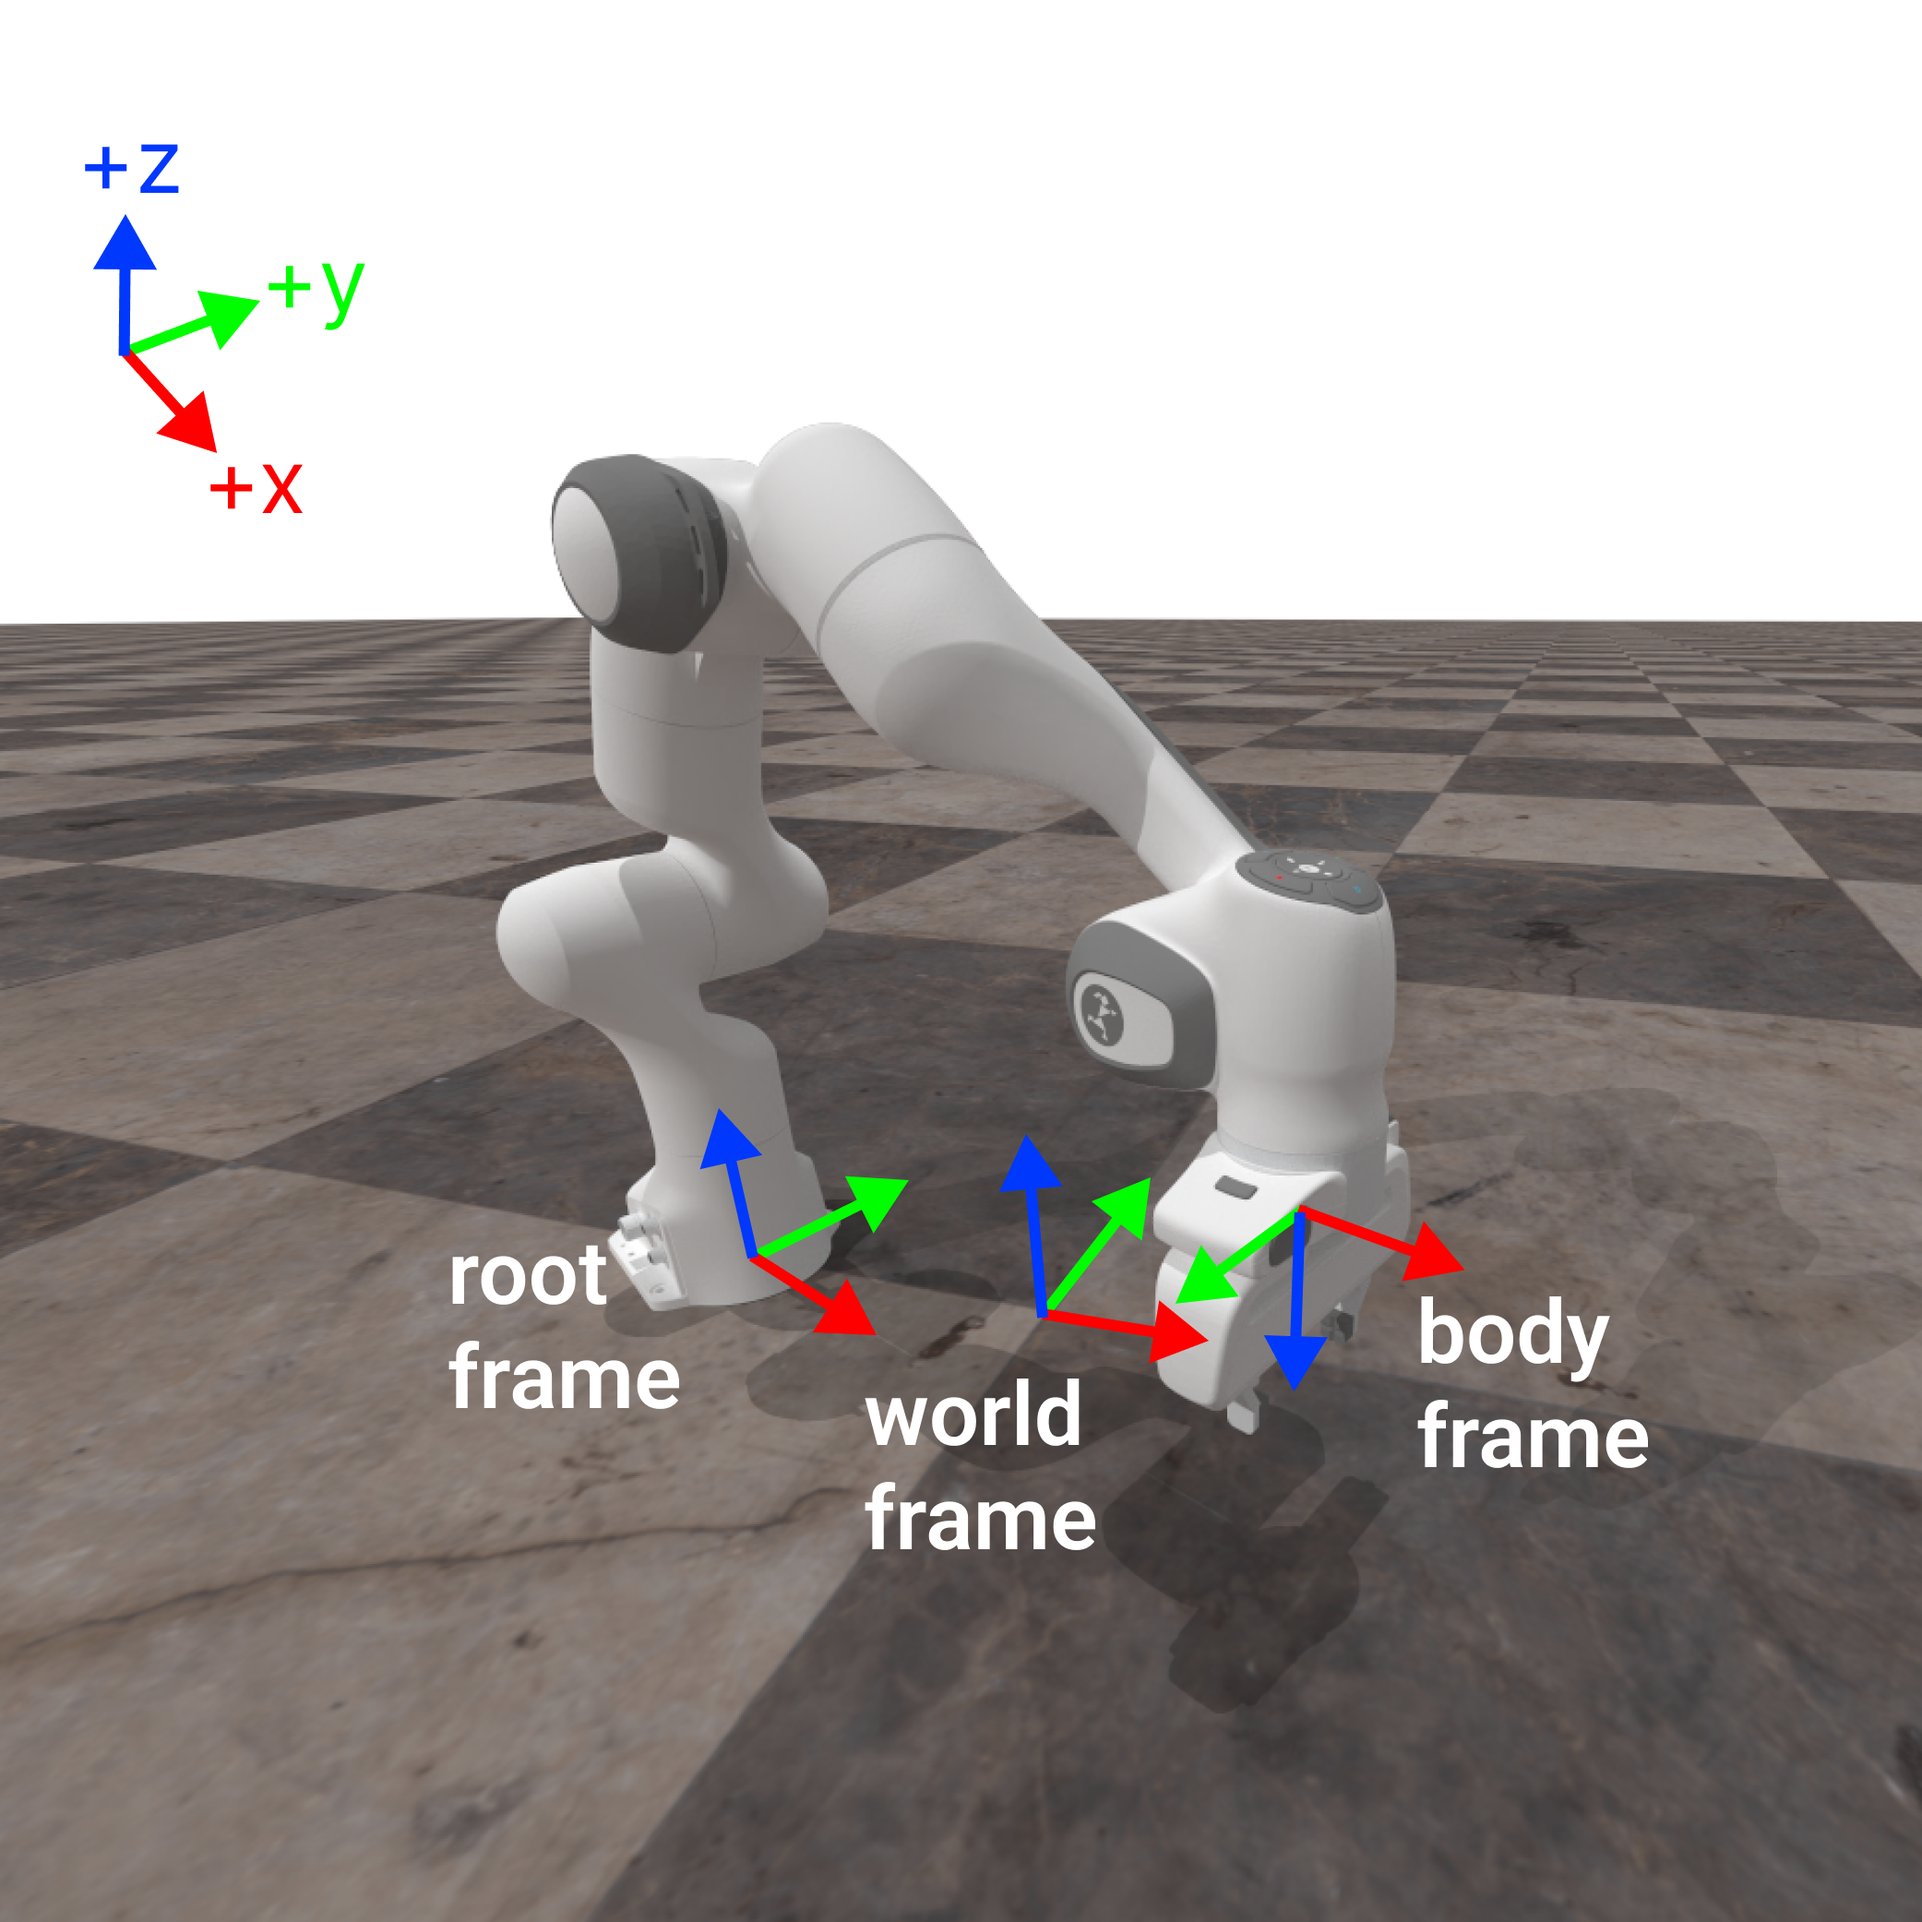
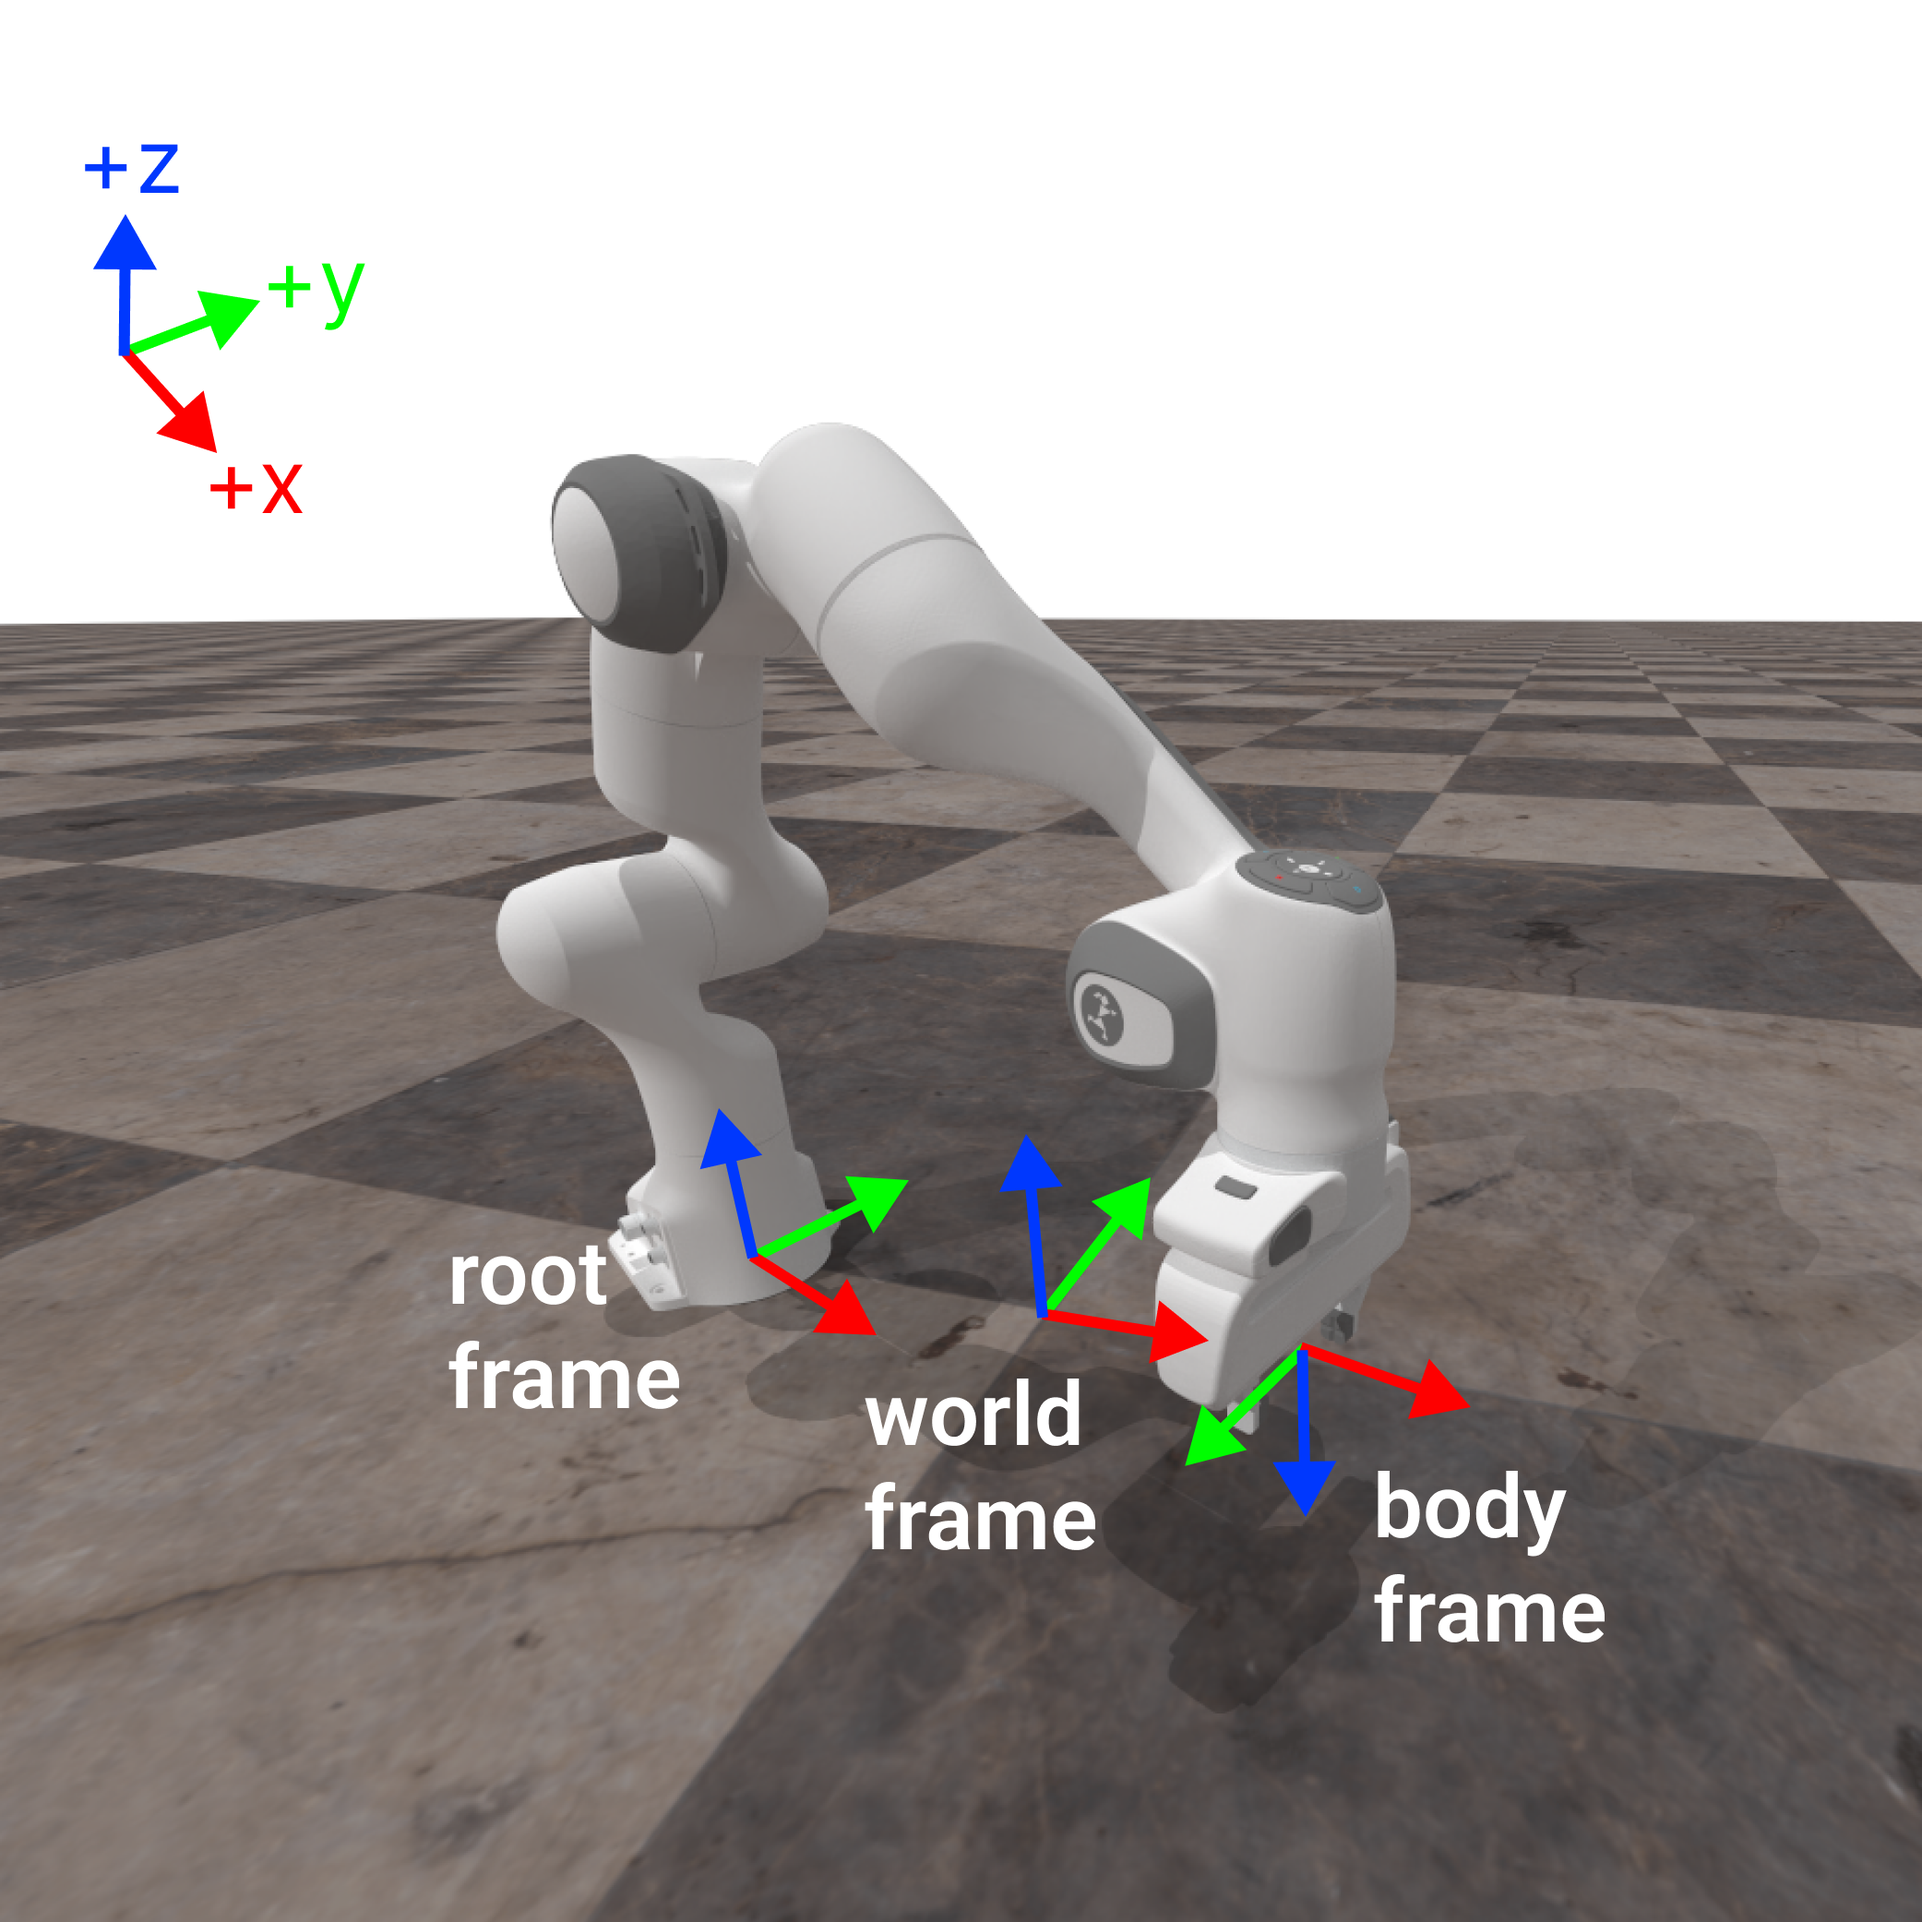
work

Changed region(s): [[0.5929, 0.6241, 0.8737, 0.8737]]

diff --git a/mani_skill/agents/controllers/pd_ee_pose.py b/mani_skill/agents/controllers/pd_ee_pose.py
@@ -1,5 +1,5 @@
 from dataclasses import dataclass
-from typing import List, Sequence, Union
+from typing import List, Literal, Sequence, Union
 
 try:
     import fast_kinematics
@@ -16,6 +16,8 @@ from mani_skill.utils import common, gym_utils, sapien_utils
 from mani_skill.utils.geometry.rotation_conversions import (
     euler_angles_to_matrix,
     matrix_to_quaternion,
+    quaternion_apply,
+    quaternion_multiply,
 )
 from mani_skill.utils.structs import ArticulationJoint, Pose
 from mani_skill.utils.structs.types import Array, DriveMode
@@ -118,6 +120,8 @@ class PDEEPosController(PDJointPosController):
     ):
         # Assume the target pose is defined in the base frame
         if physx.is_gpu_enabled():
+            ## GPU IK mixed frame is basically all relative to base frame...
+            ## CPU depends...
             jacobian = (
                 self.fast_kinematics_model.jacobian_mixed_frame_pytorch(
                     self.articulation.get_qpos()[:, self.active_ancestor_joint_idxs]
@@ -133,7 +137,6 @@ class PDEEPosController(PDJointPosController):
             # NOTE (stao): this method of IK is from https://mathweb.ucsd.edu/~sbuss/ResearchWeb/ikmethods/iksurvey.pdf by Samuel R. Buss
             delta_joint_pos = torch.linalg.pinv(jacobian) @ action.unsqueeze(-1)
             return self.qpos + delta_joint_pos.squeeze(-1)
-
         else:
             result, success, error = self.pmodel.compute_inverse_kinematics(
                 self.ee_link_idx,
@@ -154,8 +157,10 @@ class PDEEPosController(PDJointPosController):
 
             if self.config.frame == "base":
                 target_pose = delta_pose * prev_ee_pose_at_base
+                # target_pose.set_p(prev_ee_pose_at_base.p + delta_pose.p)
             elif self.config.frame == "ee":
                 target_pose = prev_ee_pose_at_base * delta_pose
+                # target_pose.set_p(prev_ee_pose_at_base.p + delta_pose.p)
             else:
                 raise NotImplementedError(self.config.frame)
         else:
@@ -260,17 +265,17 @@ class PDEEPoseController(PDEEPosController):
             delta_pos, delta_rot = action[:, 0:3], action[:, 3:6]
             delta_quat = matrix_to_quaternion(euler_angles_to_matrix(delta_rot, "XYZ"))
             delta_pose = Pose.create_from_pq(delta_pos, delta_quat)
-
-            if self.config.frame == "base":
-                target_pose = delta_pose * prev_ee_pose_at_base
-            elif self.config.frame == "ee":
-                target_pose = prev_ee_pose_at_base * delta_pose
-            elif self.config.frame == "ee_align":
-                # origin at ee but base rotation
-                target_pose = delta_pose * prev_ee_pose_at_base
-                target_pose.set_p(prev_ee_pose_at_base.p + delta_pos)
-            else:
-                raise NotImplementedError(self.config.frame)
+            if "root_aligned_body_rotation" in self.config.frame:
+                q = quaternion_multiply(delta_pose.q, prev_ee_pose_at_base.q)
+            if "body_aligned_body_rotation" in self.config.frame:
+                q = quaternion_multiply(prev_ee_pose_at_base.q, delta_pose.q)
+            if "root_translation" in self.config.frame:
+                p = prev_ee_pose_at_base.p + delta_pos
+            if "body_translation" in self.config.frame:
+                p = prev_ee_pose_at_base.p + quaternion_apply(
+                    prev_ee_pose_at_base.q, delta_pose.p
+                )
+            target_pose = Pose.create_from_pq(p, q)
         else:
             assert self.config.frame == "base", self.config.frame
             target_pos, target_rot = action[:, 0:3], action[:, 3:6]
@@ -293,11 +298,25 @@ class PDEEPoseControllerConfig(ControllerConfig):
     force_limit: Union[float, Sequence[float]] = 1e10
     friction: Union[float, Sequence[float]] = 0.0
     ee_link: str = None
+    """The name of the end-effector link to control. Note that it does not have to be a end-effector necessarily and could just be any link."""
     urdf_path: str = None
-    frame: str = "ee"  # [base, ee, ee_align]
+    """Path to the URDF file defining the robot to control."""
+    frame: Literal[
+        "body_translation:root_aligned_body_rotation",
+        "root_translation:root_aligned_body_rotation",
+        "body_translation:body_aligned_body_rotation",
+        "root_translation:body_aligned_body_rotation",
+    ] = "root_translation:root_aligned_body_rotation"
+    """Choice of frame to use for translational and rotational control of the end-effector. To learn how these work explicitly with videos of each one's behavior see TODO (stao)"""
     use_delta: bool = True
+    """Whether to use delta-action control. If true then actions indicate the delta/change in position via translation and orientation via
+    rotation. If false, then actions indicate in the base frame (typically wherever the root link of the robot is) what pose the end effector
+    should try and reach via inverse kinematics. """
     use_target: bool = False
+    """Whether to use the most recent target end-effector pose for control. If false, actions taken in a chosen frame will be taken
+    relative to the instantaneous/current end-effector pose. """
     interpolate: bool = False
     normalize_action: bool = True
+    """Whether to normalize each action dimension into a range of [-1, 1]. Normally for most machine learning workflows this is recommended to be kept true."""
     drive_mode: Union[Sequence[DriveMode], DriveMode] = "force"
     controller_cls = PDEEPoseController

diff --git a/docs/source/user_guide/concepts/controllers.md b/docs/source/user_guide/concepts/controllers.md
@@ -34,7 +34,7 @@ from mani_skill.agents.controllers import PDJointPosControllerConfig
 With a PD controller, controls the joint positions of the given joints via actions.
 
 
-### PD EE (End-Effector) Pose
+### PD EE (End-Effector) Delta Pose
 
 
 This controller has both a pose and a position variant allowing for more intuitive control of just the end-effector (or any link) of a robot. The default options of this controller are set to be the more intuitive option, but there are multiple possible choices.
@@ -45,10 +45,23 @@ To understand how this works, it is important to first understand that there are
 2. Root Link Frame
 3. End Effector / Body Frame (Our PD EE controllers in fact support controlling any link, not just the end-effector)
 
-These are highlighted below and shown with RGB axes where Red = X-axis, Green = Y-axis, and Blue = Z-axis. Note that in ManiSkill/SAPIEN, Z is canonically the natural "up/down direction" which is different to some other simulators.
+These are highlighted below and shown with RGB axes where Red = X-axis, Green = Y-axis, and Blue = Z-axis. The desired body to control shown below is a dummy link representing the tool control point (TCP) which is a simple offset from the actual end effector link (hence the origin of the body frame is in the space between the grippers). Note that in ManiSkill/SAPIEN, Z is canonically the natural "up/down direction" which is different to some other simulators.
 
 ```{figure} images/robot-with-frames.png
 ```
+
+In this controller the implemented variant is a decoupled control of translation and rotation of the end effector. This means actions taken to translate do not affect the action taken to rotate the end effector around. This results in 6 dimensions of control, 3 for 3D translation, and another 3 for rotation detailed below. 
+
+#### Translation
+
+For translation in this controller, the user specifies a delta X, Y, and Z action indicating how far to move in all those dimensions. Inverse kinematics is then used to determine the required joint actions to achieve the desired translation.
+
+#### Rotation
+
+<!-- Notes on how these videos/gifs were generated. stao hacked the control_window.py code in SAPIEN to fix where the coordinate frame position was placed. -->
+
+### PD EE Target Pose
+
 
 ## Deep Dive Example of the Franka Emika Panda Robot Controllers:
 
